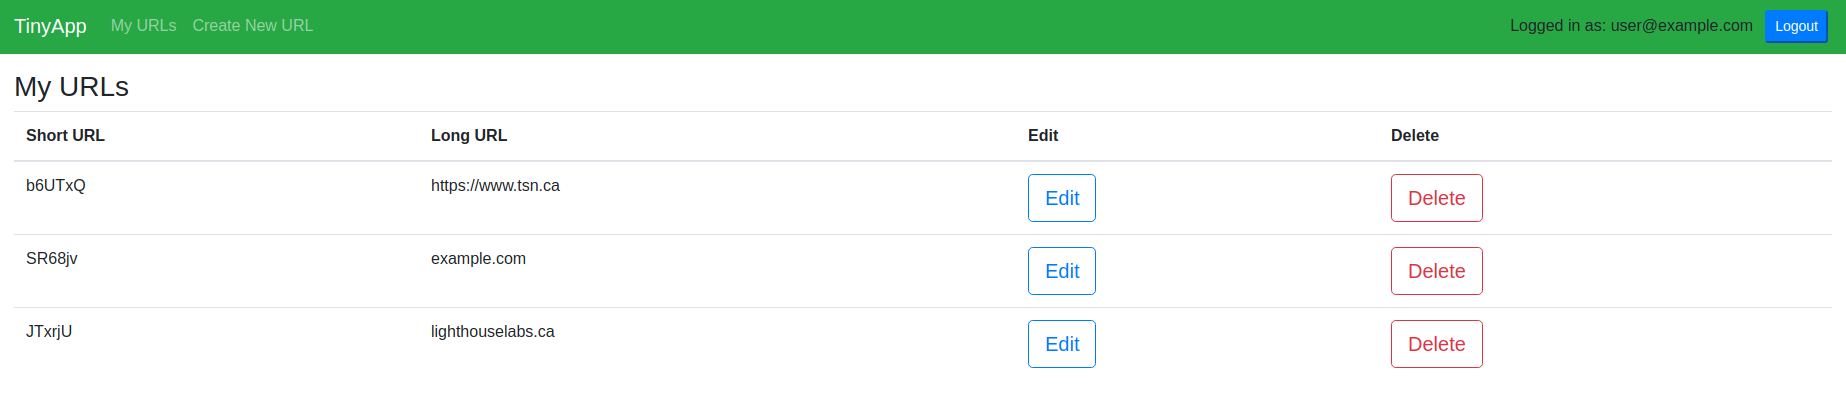
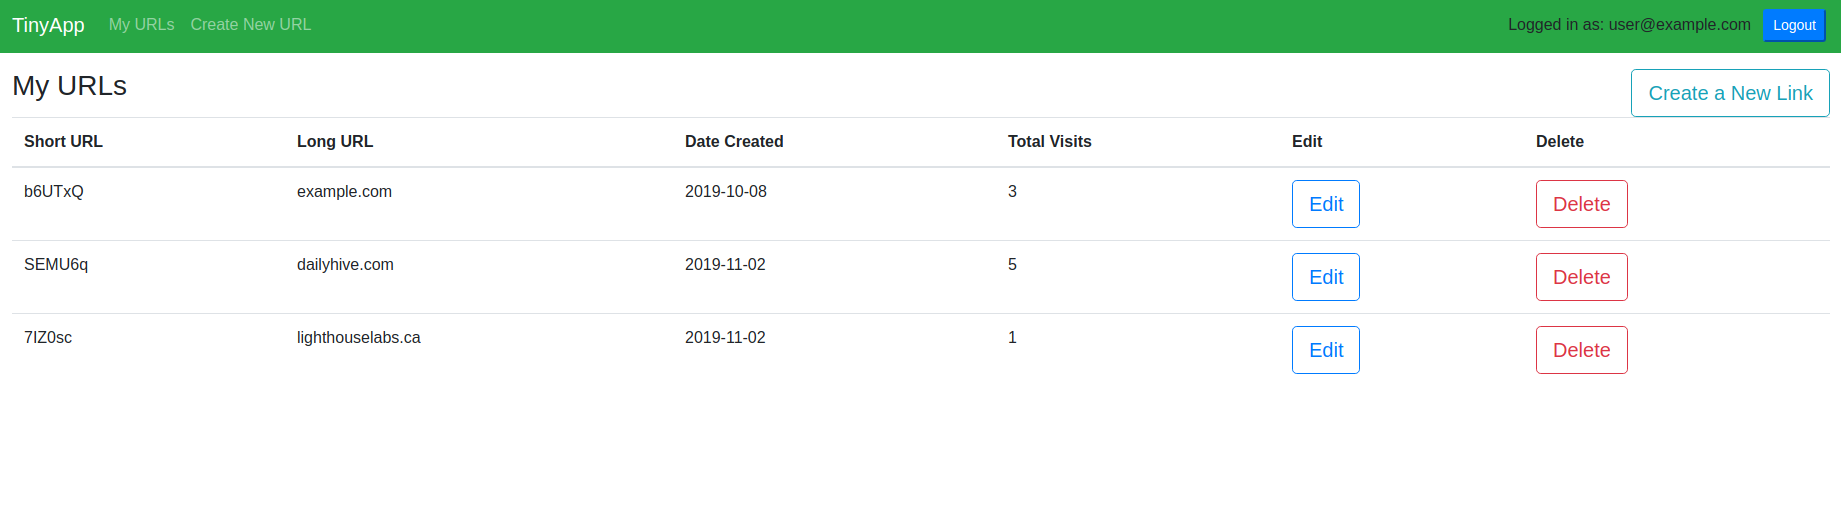
Update final with all stretch works

diff --git a/routes/users.js b/routes/users.js
@@ -1,8 +1,9 @@
 const express = require("express");
 const route = express.Router();
 const getDomainUrl = require('get-domain-url');
-
-const {generateRandomString, checkUserByEmail, findUserByEmail, findUserURL, findLongURL, submitDate, urlDate} = require('../helpers');
+const time = require('express-timestamp');
+route.use(time.init);
+const {generateRandomString, checkUserByEmail, findUserByEmail, findLongURL, findUserURL, uniqueV, arr} = require('../helpers');
 
 const bcrypt = require('bcrypt');
 
@@ -20,8 +21,13 @@ const users = {
 };
 
 const urlDatabase = {
-  b6UTxQ: { longURL: "https://www.tsn.ca", userID: "userRandomID", date: "Oct 08, 2019"},
-  i3BoGr: { longURL: "https://www.google.ca", userID: "user2RandomID", date: "Aug 07, 2018"}
+  b6UTxQ: { longURL: "https://www.tsn.ca", userID: "userRandomID", date: "2019-10-08", view: 0, uniqueV: 0},
+  i3BoGr: { longURL: "https://www.google.ca", userID: "user2RandomID", date: "2018-11-19", view: 0, uniqueV: 0}
+};
+
+const uniqueVisit = {
+  b6UTxQ: ["12se3d"],
+  i3BoGr: []
 };
 
 //---------------------------------------------------------------------------------------//
@@ -120,15 +126,11 @@ route.post("/logout", (req, res) => {
 // Specific User features - List of URLs
 
 route.get("/urls", (req, res) => {
-  console.log(urlDatabase);
   let templateVars = {
     userID: req.session.user_ID,
     email: req.session.email,
-    // date: urlDate(req.session.user_ID, urlDatabase),
-    urlDatabase: urlDatabase
-    // urlDatabase:findUserURL(req.session.user_ID, urlDatabase)
+    urlDatabase: findUserURL(req.session.user_ID, urlDatabase)
   };
-  // console.log(urlDatabase);
   if (req.session.user_ID) {
     res.render("urls_index", templateVars);
   } else {
@@ -155,11 +157,13 @@ route.post("/urls", (req, res) => {
     email: req.session.email
   };
   if (req.session.user_ID) {
-    // console.log(submitDate());
     let newURL = `${generateRandomString()}`;
     if (getDomainUrl(req.body.longURL)) {
-      // urlDatabase[newURL]["date"] = submitDate();
-      urlDatabase[newURL] = {longURL: req.body.longURL, userID: req.session.user_ID, date: submitDate()};
+      //stretch: time created
+      const hour = req.timestamp.tz("America/Los_Angeles").format();
+      const date = hour.substring(0,10);
+      //
+      urlDatabase[newURL] = {longURL: req.body.longURL, userID: req.session.user_ID, date: date , view: 0, uniqueV: 0};
       res.redirect(`/urls/${newURL}`);
     } else {
       templateVars["message"] = "Your URL is not in correct format.";
@@ -185,6 +189,9 @@ route.get("/urls/:shortURL", (req, res) => {
     if (req.session.user_ID === urlDatabase[req.params.shortURL].userID) {
       templateVars["shortURL"] = req.params.shortURL;
       templateVars["longURL"] = urlDatabase[req.params.shortURL].longURL;
+      templateVars["date"] = urlDatabase[req.params.shortURL].date;
+      templateVars["visit"] = urlDatabase[req.params.shortURL].view;
+      templateVars["unique"] = urlDatabase[req.params.shortURL].uniqueV;
       res.render("urls_show", templateVars);
     } else {
       templateVars["message"] = "You do not have access to this link.";
@@ -244,7 +251,13 @@ route.get("/u/:shortURL", (req, res) => {
     };
     res.render("urls_error", templateVars);
   } else {
-    urlDatabase["Time Visted"] += 1;
+    if (req.session.user_ID) {
+      urlDatabase[req.params.shortURL].view += 1;
+      urlDatabase[req.params.shortURL].uniqueV += 1;
+
+    } else {
+      urlDatabase[req.params.shortURL].view += 1;
+    }
     let longURL = findLongURL(shortURL, urlDatabase);
     if (longURL.indexOf('http') === 0) {
       res.redirect(longURL);

diff --git a/helpers.js b/helpers.js
@@ -32,20 +32,30 @@ const findUserURL = function(userID, database) {
   let userURLList = {};
   for (let shortURL in database) {
     if (userID === database[shortURL].userID) {
-      userURLList[shortURL] = database[shortURL].longURL;
+      userURLList[shortURL] = {longURL: database[shortURL].longURL, date: database[shortURL].date,view: database[shortURL].view};
     }
   }
   return userURLList;
 };
 
-const urlDate = function(userID, database) {
-  let dateList = [];
-  for (let shortURL in database) {
-    if (userID === database[shortURL].userID) {
-      dateList.push(database[shortURL].date);
+const arr = function(id, array1) {
+  let result = false;
+  for (let i in array1) {
+    if (id === array1[i]) {
+      result = true;
     }
   }
-  return dateList;
+  return result;
+};
+
+const uniqueV = function(userID, shortURL, obj) {
+  let array = obj[shortURL];
+  if (!arr(userID, array)) {
+    return array.length;
+  } else {
+    array.push(userID);
+    return array.length;
+  }
 };
 
 const findLongURL = function(shortURL, database) {
@@ -60,19 +70,12 @@ const findLongURL = function(shortURL, database) {
   return longURL;
 };
 
-const submitDate = function() {
-  let date = Date(Date.now());
-  date = date.substring(4,15);
-  return date;
-};
-
 module.exports = {
   generateRandomString,
   checkUserByEmail,
   findUserByEmail,
-  findUserURL,
   findLongURL,
-  submitDate,
-  urlDate
-
+  findUserURL,
+  arr,
+  uniqueV
 };

diff --git a/express_server.js b/express_server.js
@@ -11,7 +11,6 @@ app.use(cookieSession({
   keys: ['sherry'],
   maxAge: 24 * 60 * 60 * 1000
 }));
-
 app.set("view engine", "ejs");
 app.use('/', route);
 
